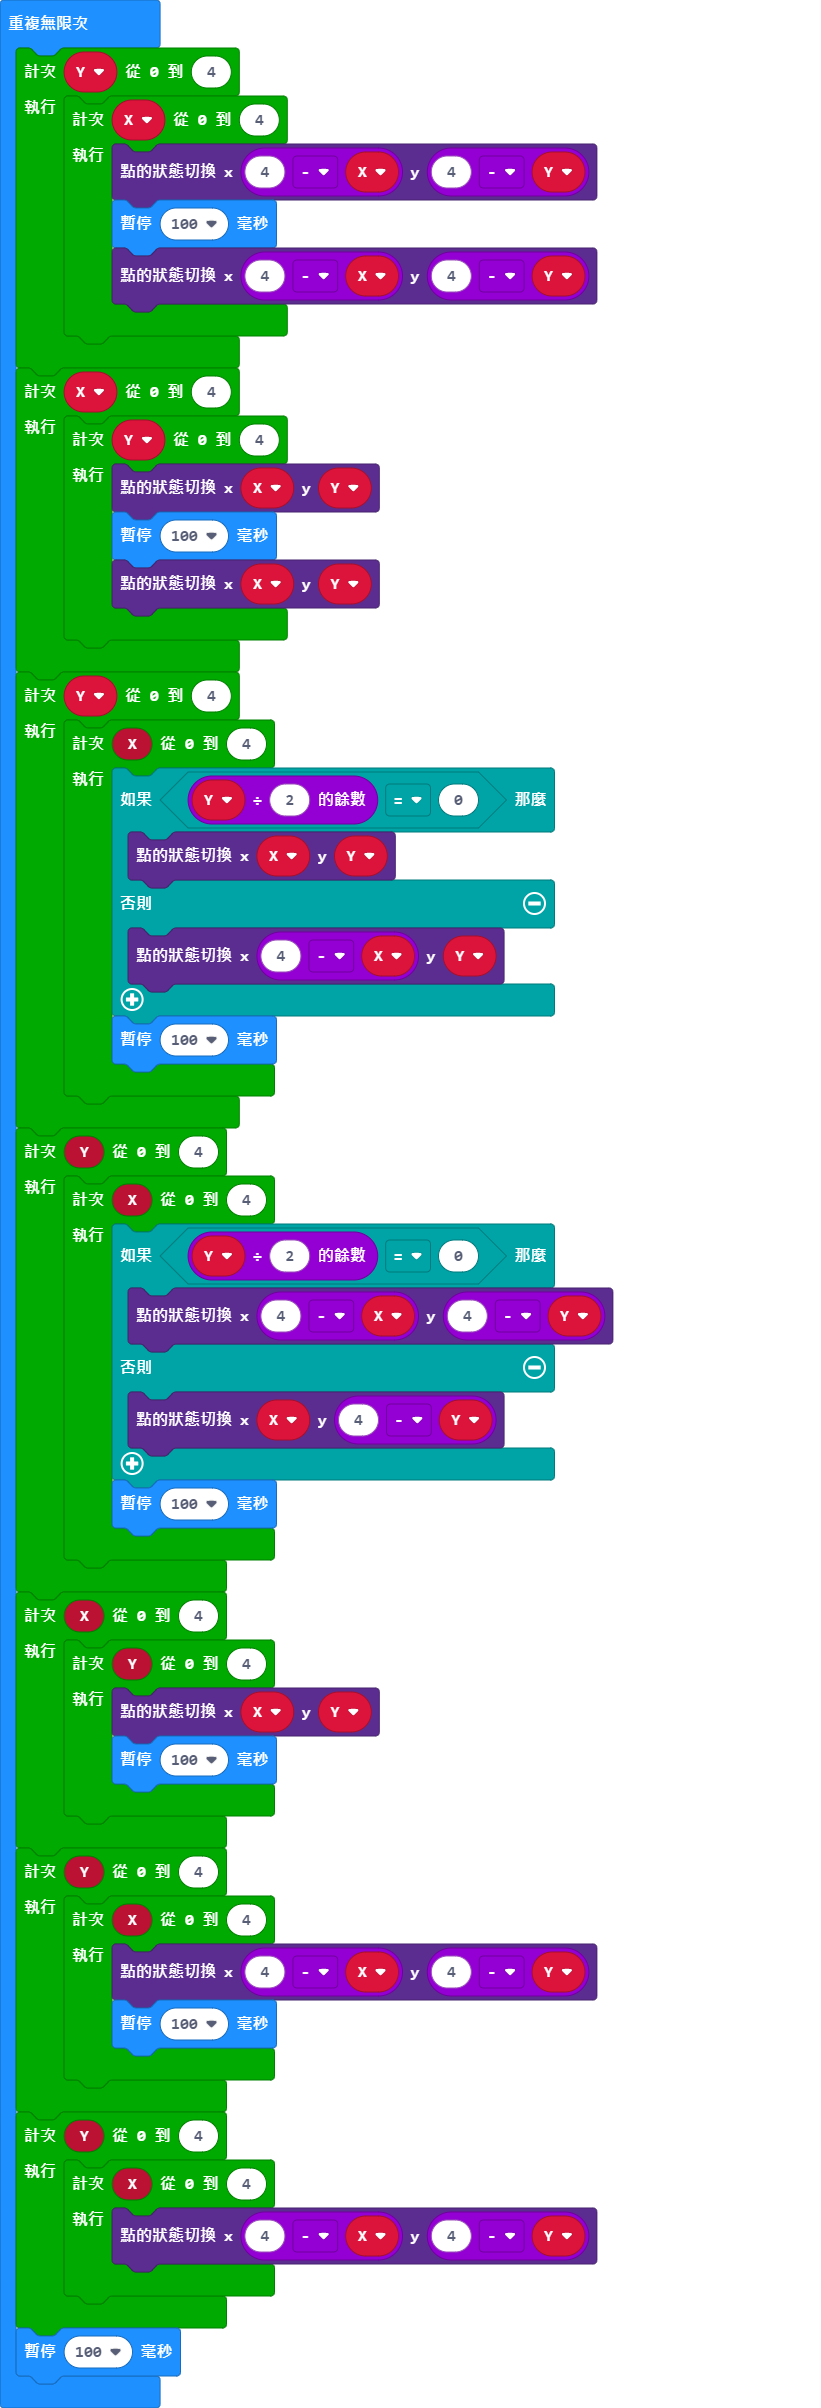
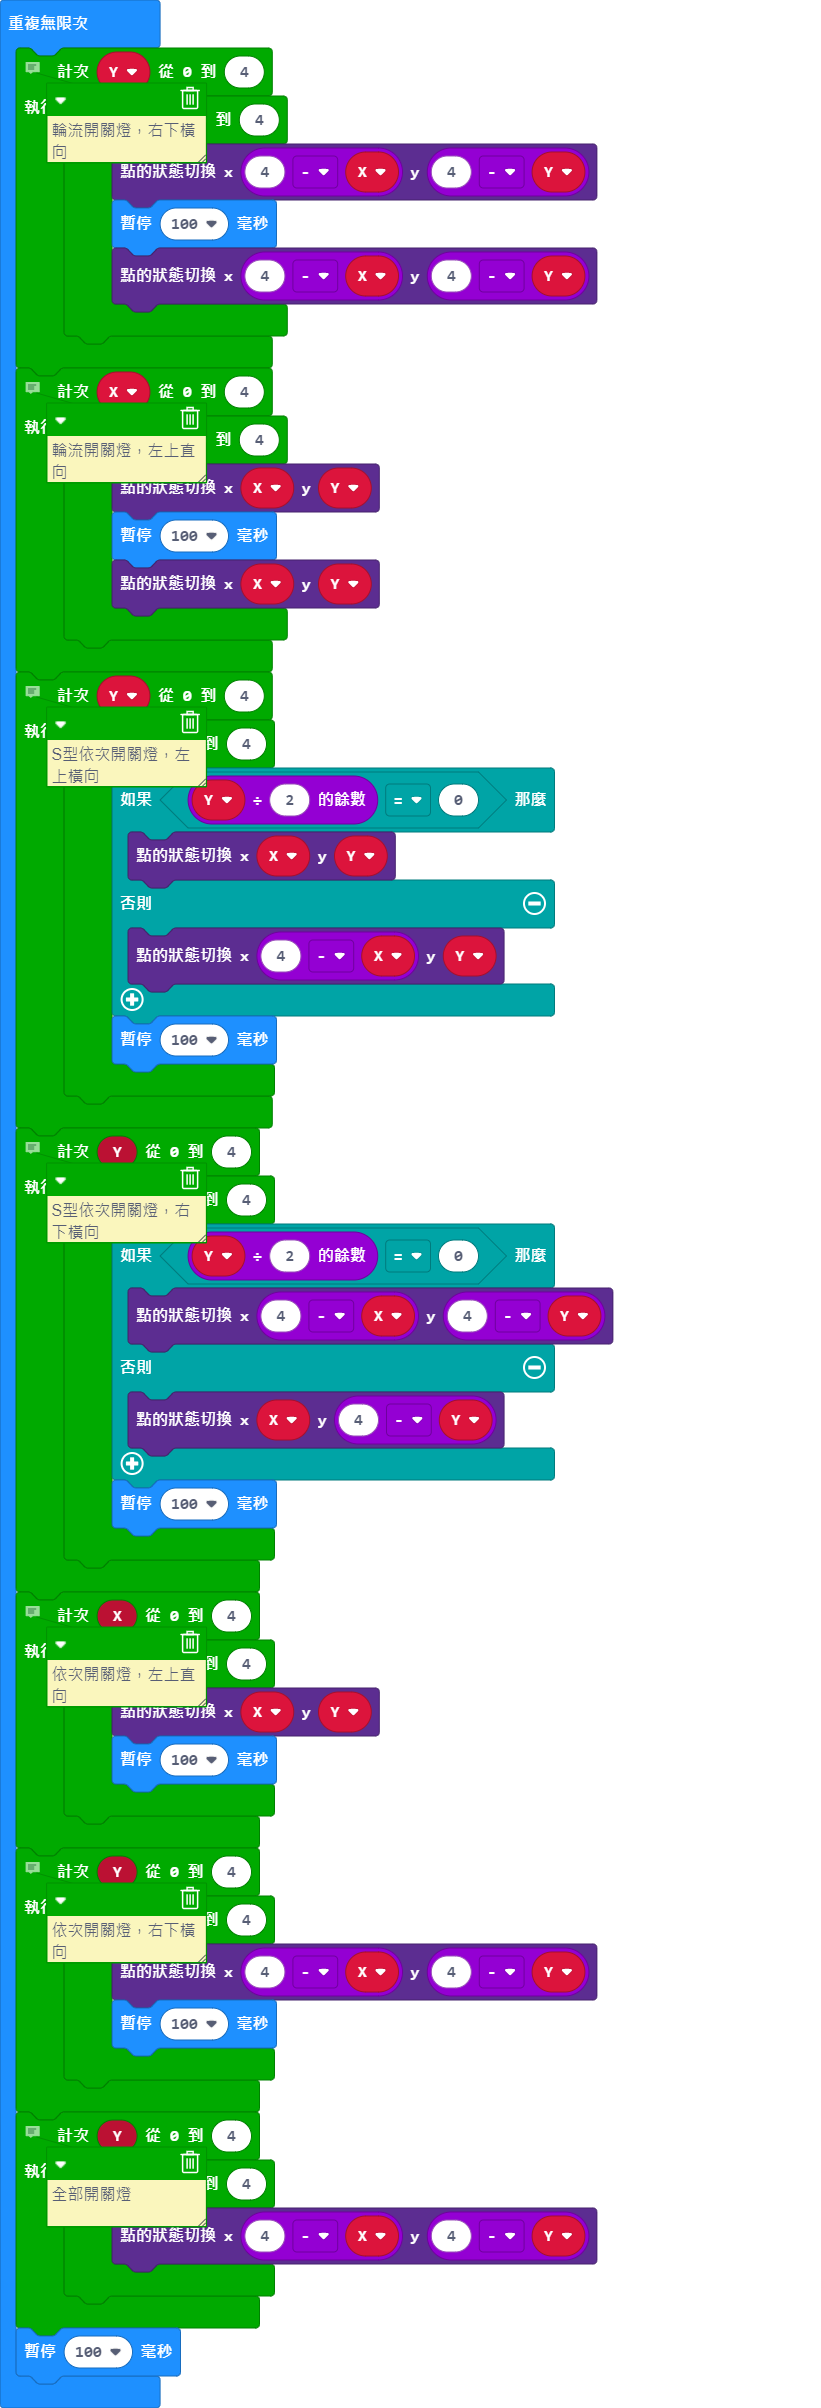
加註解

diff --git a/main.ts b/main.ts
@@ -1,4 +1,5 @@
 basic.forever(function () {
+    // 輪流開關燈，右下橫向
     for (let Y = 0; Y <= 4; Y++) {
         for (let X = 0; X <= 4; X++) {
             led.toggle(4 - X, 4 - Y)
@@ -6,6 +7,7 @@ basic.forever(function () {
             led.toggle(4 - X, 4 - Y)
         }
     }
+    // 輪流開關燈，左上直向
     for (let X = 0; X <= 4; X++) {
         for (let Y = 0; Y <= 4; Y++) {
             led.toggle(X, Y)
@@ -13,6 +15,7 @@ basic.forever(function () {
             led.toggle(X, Y)
         }
     }
+    // S型依次開關燈，左上橫向
     for (let Y = 0; Y <= 4; Y++) {
         for (let X = 0; X <= 4; X++) {
             if (Y % 2 == 0) {
@@ -23,6 +26,7 @@ basic.forever(function () {
             basic.pause(100)
         }
     }
+    // S型依次開關燈，右下橫向
     for (let Y = 0; Y <= 4; Y++) {
         for (let X = 0; X <= 4; X++) {
             if (Y % 2 == 0) {
@@ -33,18 +37,21 @@ basic.forever(function () {
             basic.pause(100)
         }
     }
+    // 依次開關燈，左上直向
     for (let X = 0; X <= 4; X++) {
         for (let Y = 0; Y <= 4; Y++) {
             led.toggle(X, Y)
             basic.pause(100)
         }
     }
+    // 依次開關燈，右下橫向
     for (let Y = 0; Y <= 4; Y++) {
         for (let X = 0; X <= 4; X++) {
             led.toggle(4 - X, 4 - Y)
             basic.pause(100)
         }
     }
+    // 全部開關燈
     for (let Y = 0; Y <= 4; Y++) {
         for (let X = 0; X <= 4; X++) {
             led.toggle(4 - X, 4 - Y)
